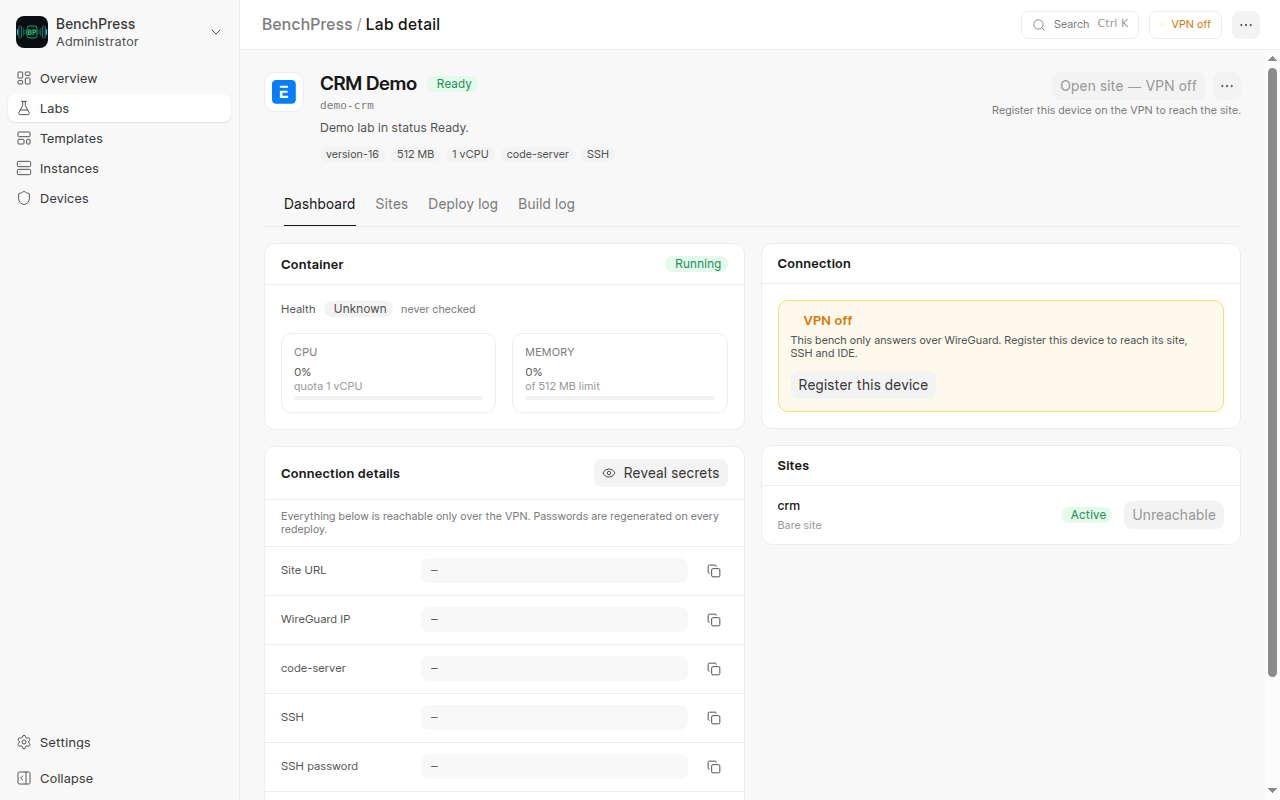
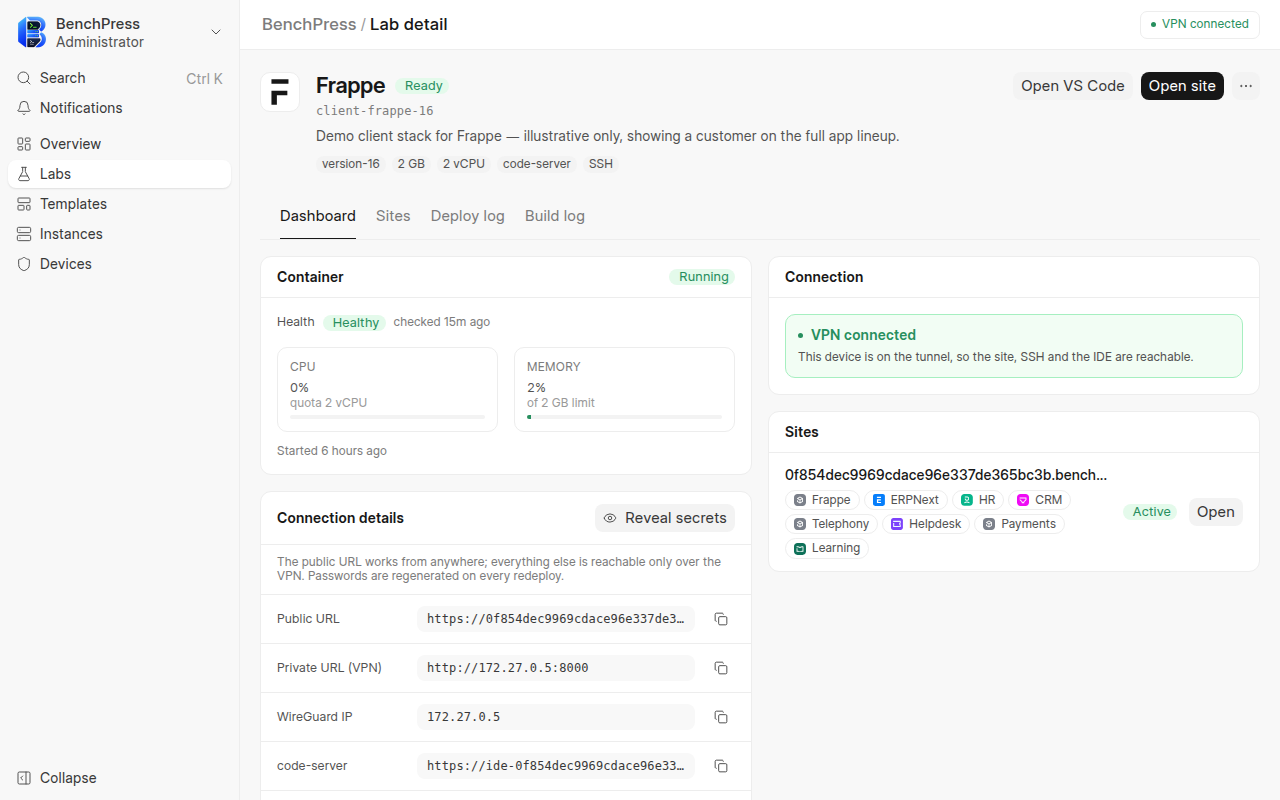
docs: recapture the screenshot suite against the current SPA
The pictures still showed the previous sidebar, the old app mark and
labs stuck in Error and Building. Recaptured all twelve at the
documented 1280x800: the new logo and sidebar, a connected VPN chip
and labs that are Running.

Two manifest rows no longer matched their picture. The deploy log tab
now frames a successful run rather than a failed one, and Settings
opens as a dialog rather than a page.

diff --git a/docs/SCREENSHOT-CHECKLIST.md b/docs/SCREENSHOT-CHECKLIST.md
@@ -31,13 +31,13 @@ npx agent-browser@0.21.4 --session docs screenshot docs/images/labs-list.png
 | `new-lab-filled.png` | `/frontend/labs/new` | The same form filled in, with two apps and a live summary |
 | `lab-detail.png` | `/frontend/labs/:id` | Lab detail — both status axes, connection details, sites |
 | `connection-info.png` | Lab detail > Dashboard | The connection card with its masked secrets |
-| `deploy-log-tab.png` | Lab detail > Deploy log | The eleven-step stepper on a failed run, with the error banner |
+| `deploy-log-tab.png` | Lab detail > Deploy log | The eleven-step stepper on a successful run, each step with its duration |
 | `build-log-tab.png` | Lab detail > Build log | A stored image build |
 | `bench-instances.png` | `/frontend/bench-instances` | The instances table |
 | `deploy-logs.png` | `/frontend/deploy-logs` | Deploy history — result, last step, duration, retention note |
 | `build-logs.png` | `/frontend/build-logs` | Build history, reached from Labs (admin only) |
 | `devices.png` | `/frontend/devices` | Devices — tunnel state, registered devices, connection test |
-| `settings.png` | `/frontend/settings` | Settings as a page: three grouped cards and the save bar |
+| `settings.png` | `/frontend/settings` | Settings as a dialog: the Server nav, the Domains pane and the save bar |
 
 ## Not captured
 
